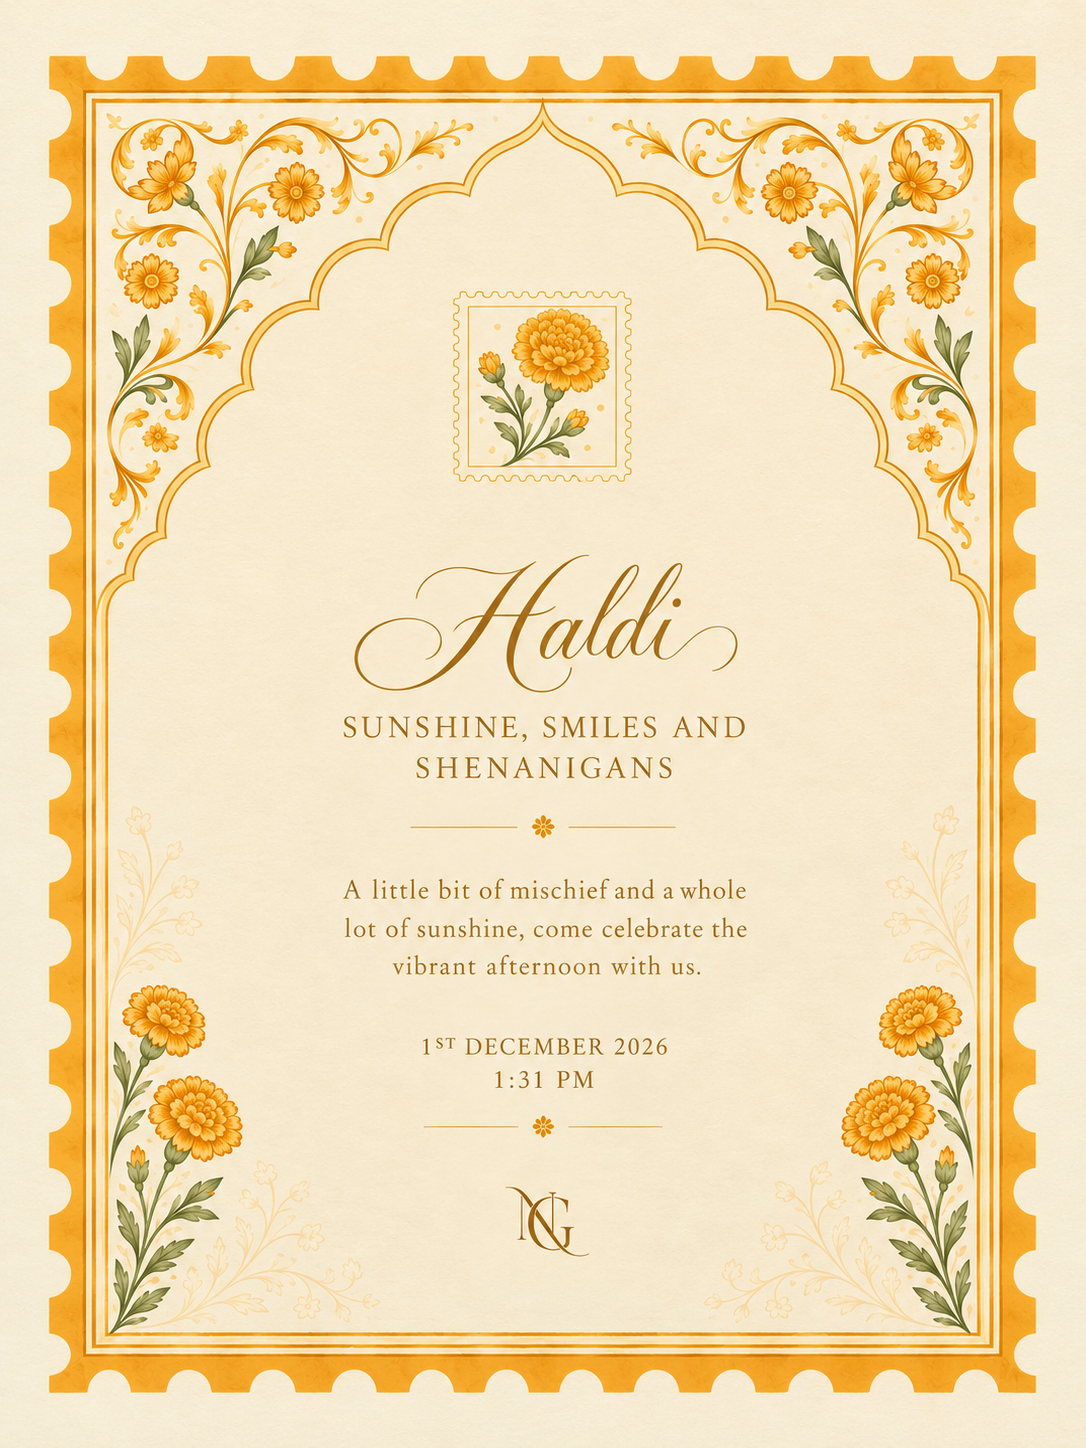
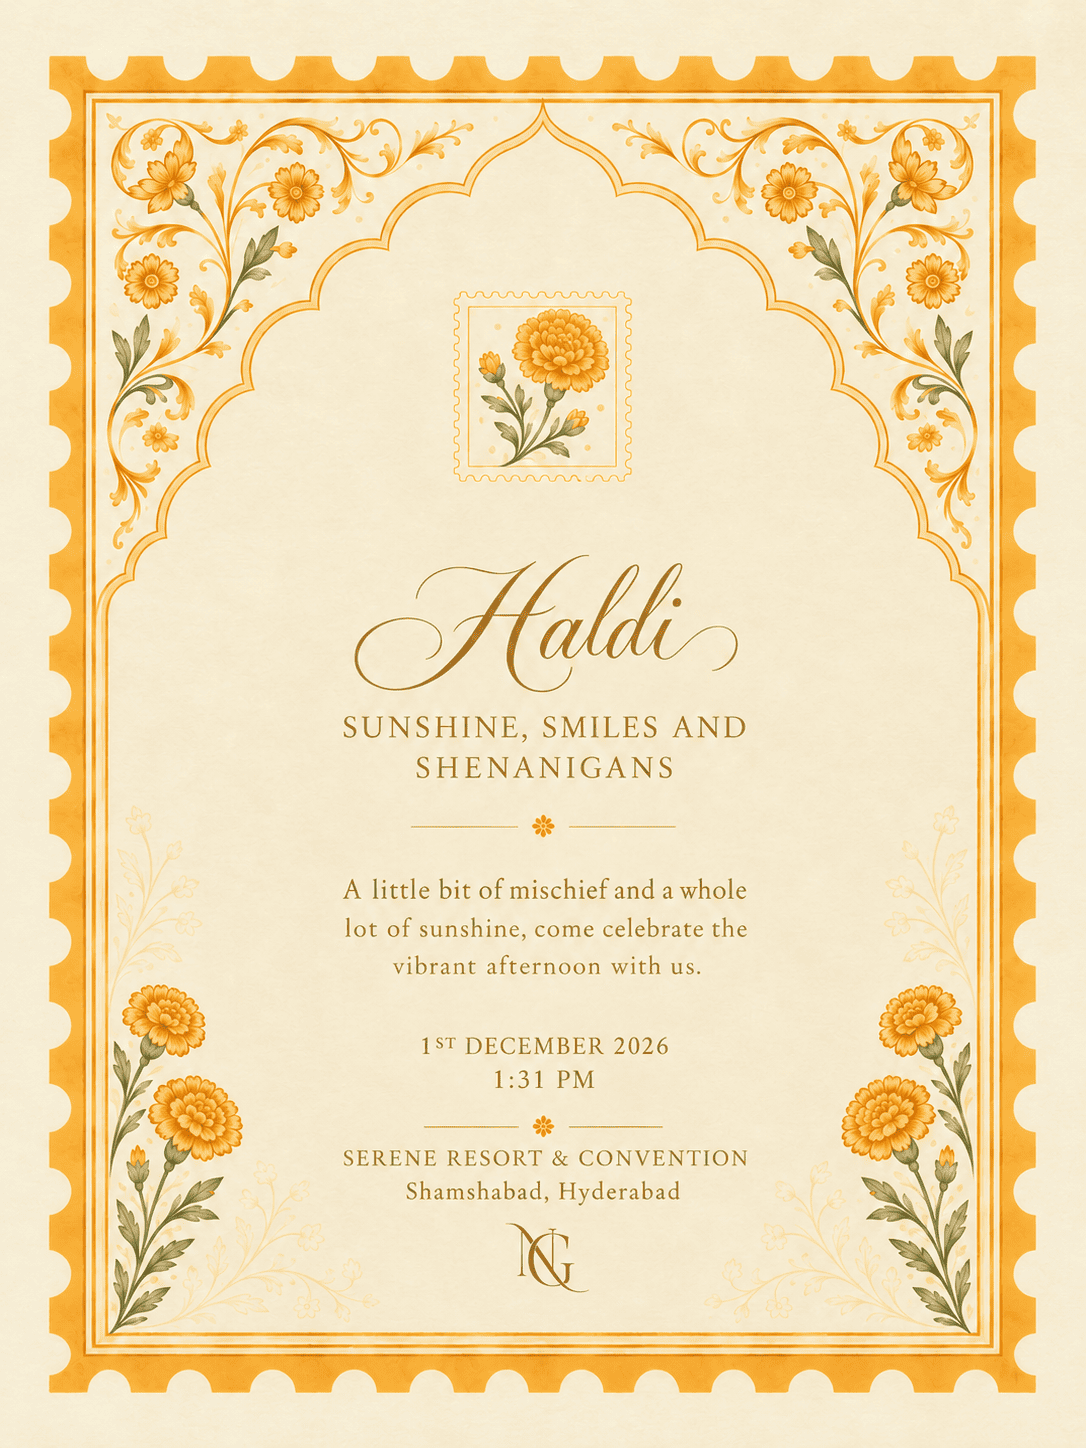
changed the photos, optimised the photos and removed the gallery and upload option for now

diff --git a/src/components/events/PosterLightbox.tsx b/src/components/events/PosterLightbox.tsx
@@ -1,19 +1,24 @@
 'use client';
 
 import Image from 'next/image';
-import { useRef } from 'react';
+import { useRef, useState } from 'react';
 import { X } from 'lucide-react';
 
 type PosterLightboxProps = {
   src: string;
   title: string;
+  priority?: boolean;
 };
 
 // A poster thumbnail that opens the full poster in a modal. The native <dialog> handles focus and Escape.
-export function PosterLightbox({ src, title }: PosterLightboxProps) {
+export function PosterLightbox({ src, title, priority = false }: PosterLightboxProps) {
   const dialogRef = useRef<HTMLDialogElement>(null);
+  const [hasOpened, setHasOpened] = useState(false);
 
-  const open = () => dialogRef.current?.showModal();
+  const open = () => {
+    setHasOpened(true);
+    dialogRef.current?.showModal();
+  };
   const close = () => dialogRef.current?.close();
 
   return (
@@ -29,6 +34,7 @@ export function PosterLightbox({ src, title }: PosterLightboxProps) {
           alt=""
           fill
           sizes="(min-width: 640px) 112px, 80px"
+          priority={priority}
           className="object-cover transition-transform duration-300 group-hover:scale-105"
         />
         <span className="sr-only">View the {title} poster</span>
@@ -44,14 +50,16 @@ export function PosterLightbox({ src, title }: PosterLightboxProps) {
         className="m-auto max-h-none max-w-none overflow-visible bg-transparent p-0 backdrop:bg-black/75 backdrop:backdrop-blur-sm"
       >
         <div className="relative">
-          <Image
-            src={src}
-            alt={`${title} poster`}
-            width={735}
-            height={920}
-            sizes="(min-width: 640px) 560px, 92vw"
-            className="h-auto max-h-[85vh] w-[92vw] max-w-[560px] rounded-[20px] object-contain shadow-2xl"
-          />
+          {hasOpened ? (
+            <Image
+              src={src}
+              alt={`${title} poster`}
+              width={735}
+              height={920}
+              sizes="(min-width: 640px) 560px, 92vw"
+              className="h-auto max-h-[85vh] w-[92vw] max-w-[560px] rounded-[20px] object-contain shadow-2xl"
+            />
+          ) : null}
           <button
             type="button"
             onClick={close}

diff --git a/src/components/events/EventTimeline.tsx b/src/components/events/EventTimeline.tsx
@@ -33,7 +33,7 @@ function CalendarLink({ event, name, withLabel = false }: { event: ScheduleEvent
   );
 }
 
-function TimelineStop({ event }: { event: ScheduleEvent }) {
+function TimelineStop({ event, priority = false }: { event: ScheduleEvent; priority?: boolean }) {
   const featured = featuredEvents[event.id];
 
   if (featured) {
@@ -47,7 +47,7 @@ function TimelineStop({ event }: { event: ScheduleEvent }) {
           )}
         />
         <article className="flex gap-4 rounded-[24px] border border-[#efe6db] bg-white/80 p-3 shadow-soft sm:gap-6 sm:p-4">
-          <PosterLightbox src={featured.image} title={featured.title} />
+          <PosterLightbox src={featured.image} title={featured.title} priority={priority} />
           <div className="flex min-w-0 flex-1 flex-col justify-center">
             <time dateTime={event.start} className="text-xs font-medium uppercase tracking-[0.12em] text-rose">
               {featured.time}
@@ -88,6 +88,8 @@ function TimelineStop({ event }: { event: ScheduleEvent }) {
 }
 
 export function EventTimeline({ days }: { days: ScheduleDay[] }) {
+  const firstEventId = days[0]?.events[0]?.id;
+
   return (
     <section id="schedule" aria-labelledby="schedule-heading" className="mx-auto max-w-2xl scroll-mt-24">
       <h2 id="schedule-heading" className="sr-only">
@@ -124,7 +126,7 @@ export function EventTimeline({ days }: { days: ScheduleDay[] }) {
             </h3>
             <ol>
               {day.events.map((event) => (
-                <TimelineStop key={event.id} event={event} />
+                <TimelineStop key={event.id} event={event} priority={event.id === firstEventId} />
               ))}
             </ol>
           </div>

diff --git a/src/app/page.tsx b/src/app/page.tsx
@@ -4,7 +4,7 @@ import Image from 'next/image';
 import Link from 'next/link';
 import { useEffect, useRef, useState } from 'react';
 import { AnimatePresence, motion } from 'framer-motion';
-import { ArrowRight, CalendarRange, Camera, Heart, MapPin, Sparkles } from 'lucide-react';
+import { ArrowRight, CalendarRange, Heart, MapPin } from 'lucide-react';
 import { Button } from '@/components/ui/button';
 import { Card, CardContent } from '@/components/ui/card';
 import { getEvent, toDate } from '@/lib/schedule';
@@ -21,18 +21,6 @@ const quickActions = [
     title: 'Venue',
     description: 'A serene resort in Hyderabad, designed for warm gatherings and easy travel.',
     icon: MapPin,
-  },
-  {
-    href: '/gallery',
-    title: 'Gallery',
-    description: 'A growing archive of the moments we will treasure for years to come.',
-    icon: Camera,
-  },
-  {
-    href: '/upload',
-    title: 'Upload',
-    description: 'Celebrate with us by sharing the memories you hold close.',
-    icon: Sparkles,
   },
 ];
 
@@ -197,7 +185,7 @@ export default function HomePage() {
       </section>
 
       <section className="mx-auto max-w-7xl px-5 py-16 sm:px-8 lg:px-10">
-        <div className="grid gap-5 md:grid-cols-2 xl:grid-cols-4">
+        <div className="grid gap-5 md:grid-cols-2">
           {quickActions.map((item) => {
             const Icon = item.icon;
             return (

diff --git a/src/app/story/page.tsx b/src/app/story/page.tsx
@@ -46,8 +46,8 @@ export default function StoryPage() {
       <div className="grid gap-8 lg:grid-cols-[0.9fr_1.1fr] lg:items-start">
         <div className="overflow-hidden rounded-[32px] border border-[#efe6db] bg-white/80 p-2 shadow-soft">
           <Image
-            src="https://images.unsplash.com/photo-1522673607200-164d1b6ce486?auto=format&fit=crop&w=1200&q=80"
-            alt="A couple in a warm, intimate setting"
+            src="/images/story-couple.jpeg"
+            alt="Nidhi and Govind smiling together outdoors at night"
             width={900}
             height={1100}
             className="h-[560px] w-full rounded-[28px] object-cover"

diff --git a/src/app/layout.tsx b/src/app/layout.tsx
@@ -6,7 +6,7 @@ import { Footer } from '@/components/layout/footer';
 export const metadata: Metadata = {
   title: 'GeeNi | Nidhi & Govind',
   description:
-    'A warm, luxurious wedding experience designed for Nidhi Bang and Govind Daga, celebrating tradition and modern elegance.',
+    'Designed personally by Govind and Nidhi <3',
   keywords: ['wedding website', 'Indian wedding', 'luxury wedding', 'GeeNi'],
 };
 

diff --git a/src/components/layout/navbar.tsx b/src/components/layout/navbar.tsx
@@ -8,8 +8,6 @@ import { MusicToggle } from '@/components/layout/music-toggle';
 const links = [
   { href: '/events', label: 'Events' },
   { href: '/venue', label: 'Venue' },
-  { href: '/gallery', label: 'Gallery' },
-  { href: '/upload', label: 'Upload' },
 ];
 
 export function Navbar() {
